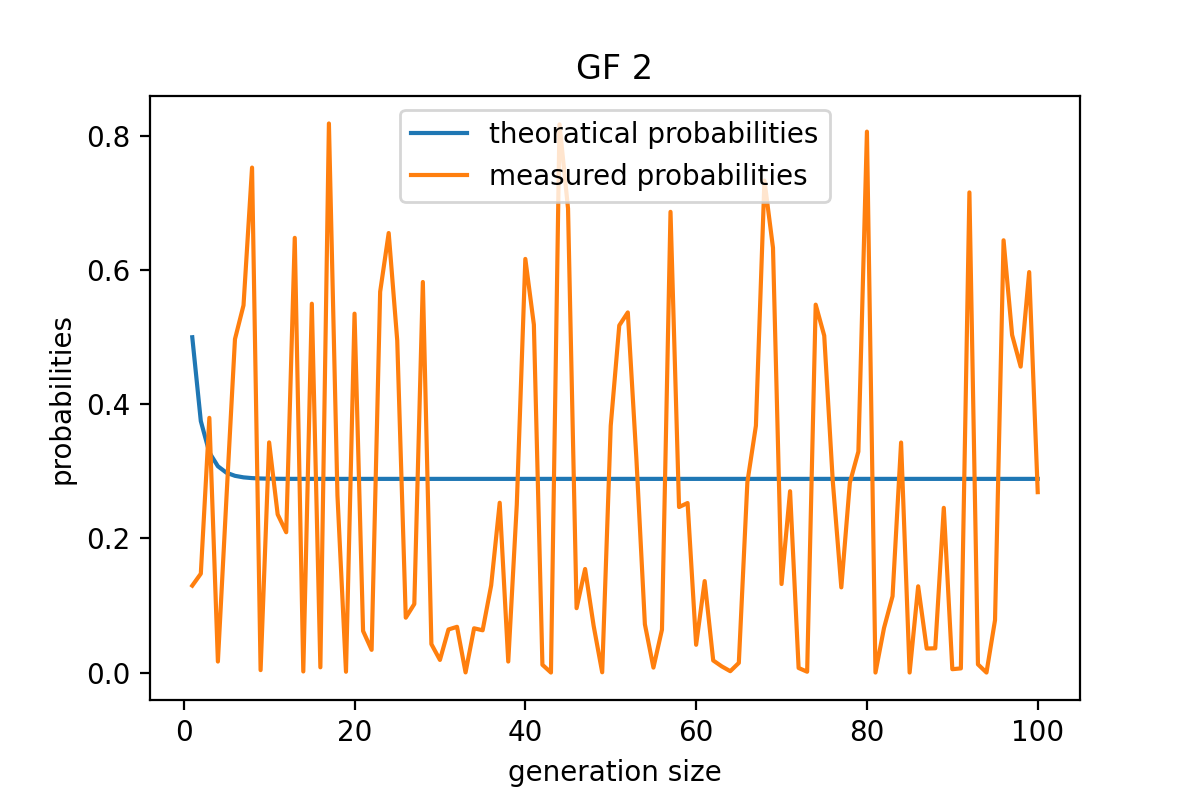
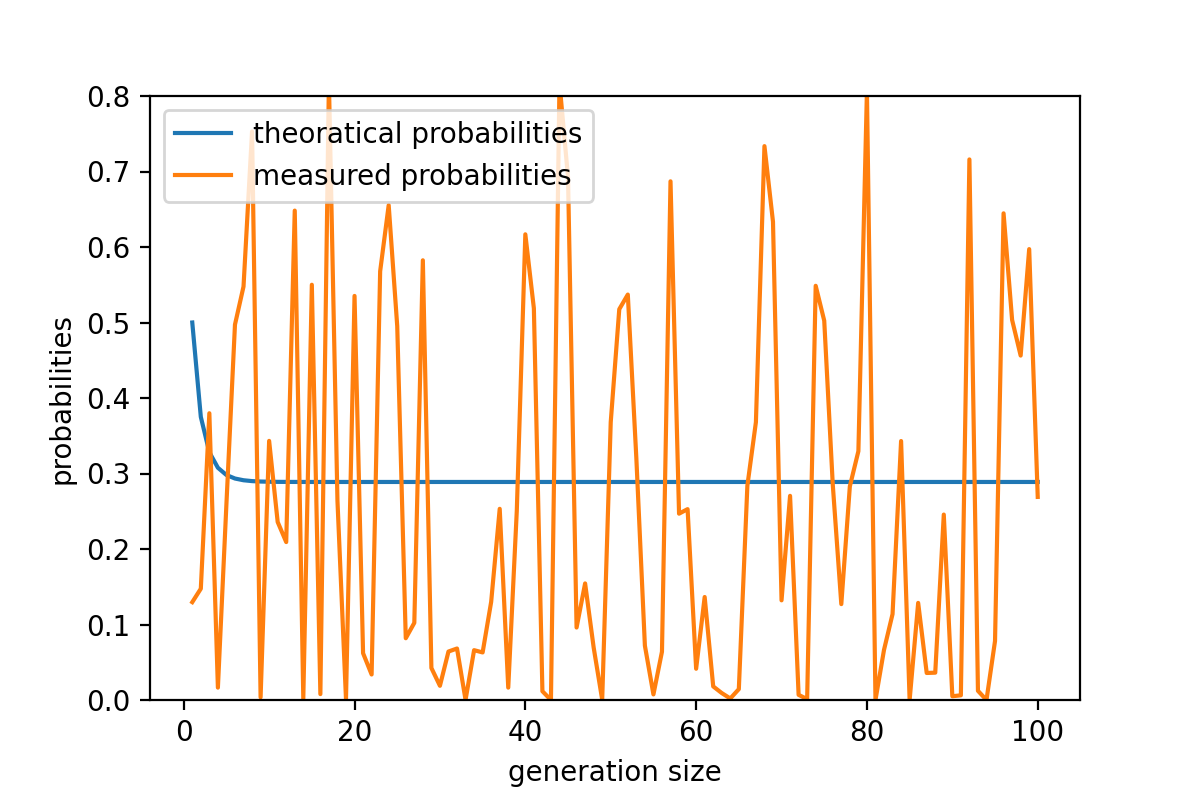
Added figures to explain why seed is needed

diff --git a/project_report/report.tex b/project_report/report.tex
@@ -63,7 +63,8 @@
 	\bfseries\Large Validation Tool for \texttt{libmoeprlnc}\\[.5\baselineskip]
 \end{center}
 \begin{center}
-	\small Group 6\\
+	\large Group 6\\\vspace{0.5cm}
+	\small Tobias Jülg and Ben Riegel\\% names are sorted alphabetically after last name
 	\today
 \end{center}
 
@@ -280,10 +281,25 @@ The proposed tool accepts the following command line parameters:
 We had to extend \texttt{libmoeprlnc} by the function shown in Figure \ref{code}, as the 
 library does not offer the possibility to change the seed of a \texttt{rlnc\_block} from outside. The seed is 
 initialized with zero when a \texttt{rlnc\_block} is created. This seed is then used by the \texttt{rlnc\_block\_decode()}
-method to pseudo-randomly (\texttt{rand\_r(seed)}) combine data with each other. However, if the same seed is used, the 
+method to pseudo-randomly created coded frames with \texttt{rand\_r(seed)}. However, if the same seed is used, the 
 data of generation A will always be coded in the same sequence. 
-While this behavior does not need to cause problems in a real-world application, it does make an statistical evaluation obsolete.
+While this behavior does not need to cause problems in a real-world application, it does make an statistical evaluation obsolete as all iterations will produce exactly the same coded frames given that all other parameters are unchanged.
 
+One can see this effect in Figure \ref{fig:noseed} where the measured and theoretical decoding probability after $N$ (generation size) of received frames is plotted against the used generation size. The plots have the same scaling. One can see that the plot without a seed set has significant more jitter. This jitter persists even when one uses larger and larger amounts of iterations per generation size and this is because every single iteration will lead to the very same coded packets, nullifying the argument of taking the mean over several iterations. On the other hand, the second plot shows a range of experiments where the seed has been set as we described above. Here one does see a good convergence towards the theoretical calculated decoding probability as the mean of the iterations will balance out outliers.
+% Thus, such a seed setting method is needed in order to allow meaningful statistical analysis.
+% Thus, a method to let the validation tool set a new seed for each iteration is needed in order to allow a statistical analysis.
+
+% (note that the values in the plot are always mean values of several thousand iterations per generation size)
+% Normally one would think that with a large amount of iterations the jitter shou
+
+\begin{figure}[htb]
+  \centering
+  \subfloat[GF 2 without seed explicitly set in \texttt{libmoeprlnc}]{\includegraphics[scale=0.55]{figs/gf2_noseed}\label{fig:gf2_noseed}}
+  \hfill
+  \subfloat[GF 2 with different seed for each iterations using the function in Figure \ref{code}]{\includegraphics[scale=0.55]{figs/gf2_ylim}\label{fig:gf2_seed}}
+  \caption{The two plots show the decoding probability after $N$ (generation size) received frames versus the generation size for a validation with the default seed in \protect\subref{fig:gf2_noseed} and with the seed set by the function shown in Figure \ref{code} in \protect\subref{fig:gf2_seed}. The decoding probability is calculated over 5000 iterations with a frame size of 50 Bytes and the prefill mode for Galois Field size $q=2$.}
+  \label{fig:noseed}
+\end{figure}
 
 \begin{figure}[h]
   \begin{lstlisting}[language=C]
@@ -297,9 +313,10 @@ void rlnc_block_set_seed(rlnc_block_t b, unsigned int seed){
 \end{figure}
 
 We use the function in Figure \ref{code} to give each \texttt{rlnc\_blocks} a unique seed before each iteration.
-
 Note that there is a version of the code in the repository where the calls to this method 
 have been commented out to ensure that the code works and compiles with the unpatched version of \texttt{libmoeprlnc}.
+
+
 
 \subsection{Python Tool for Parallel Validation of Different Configurations}
 ...
